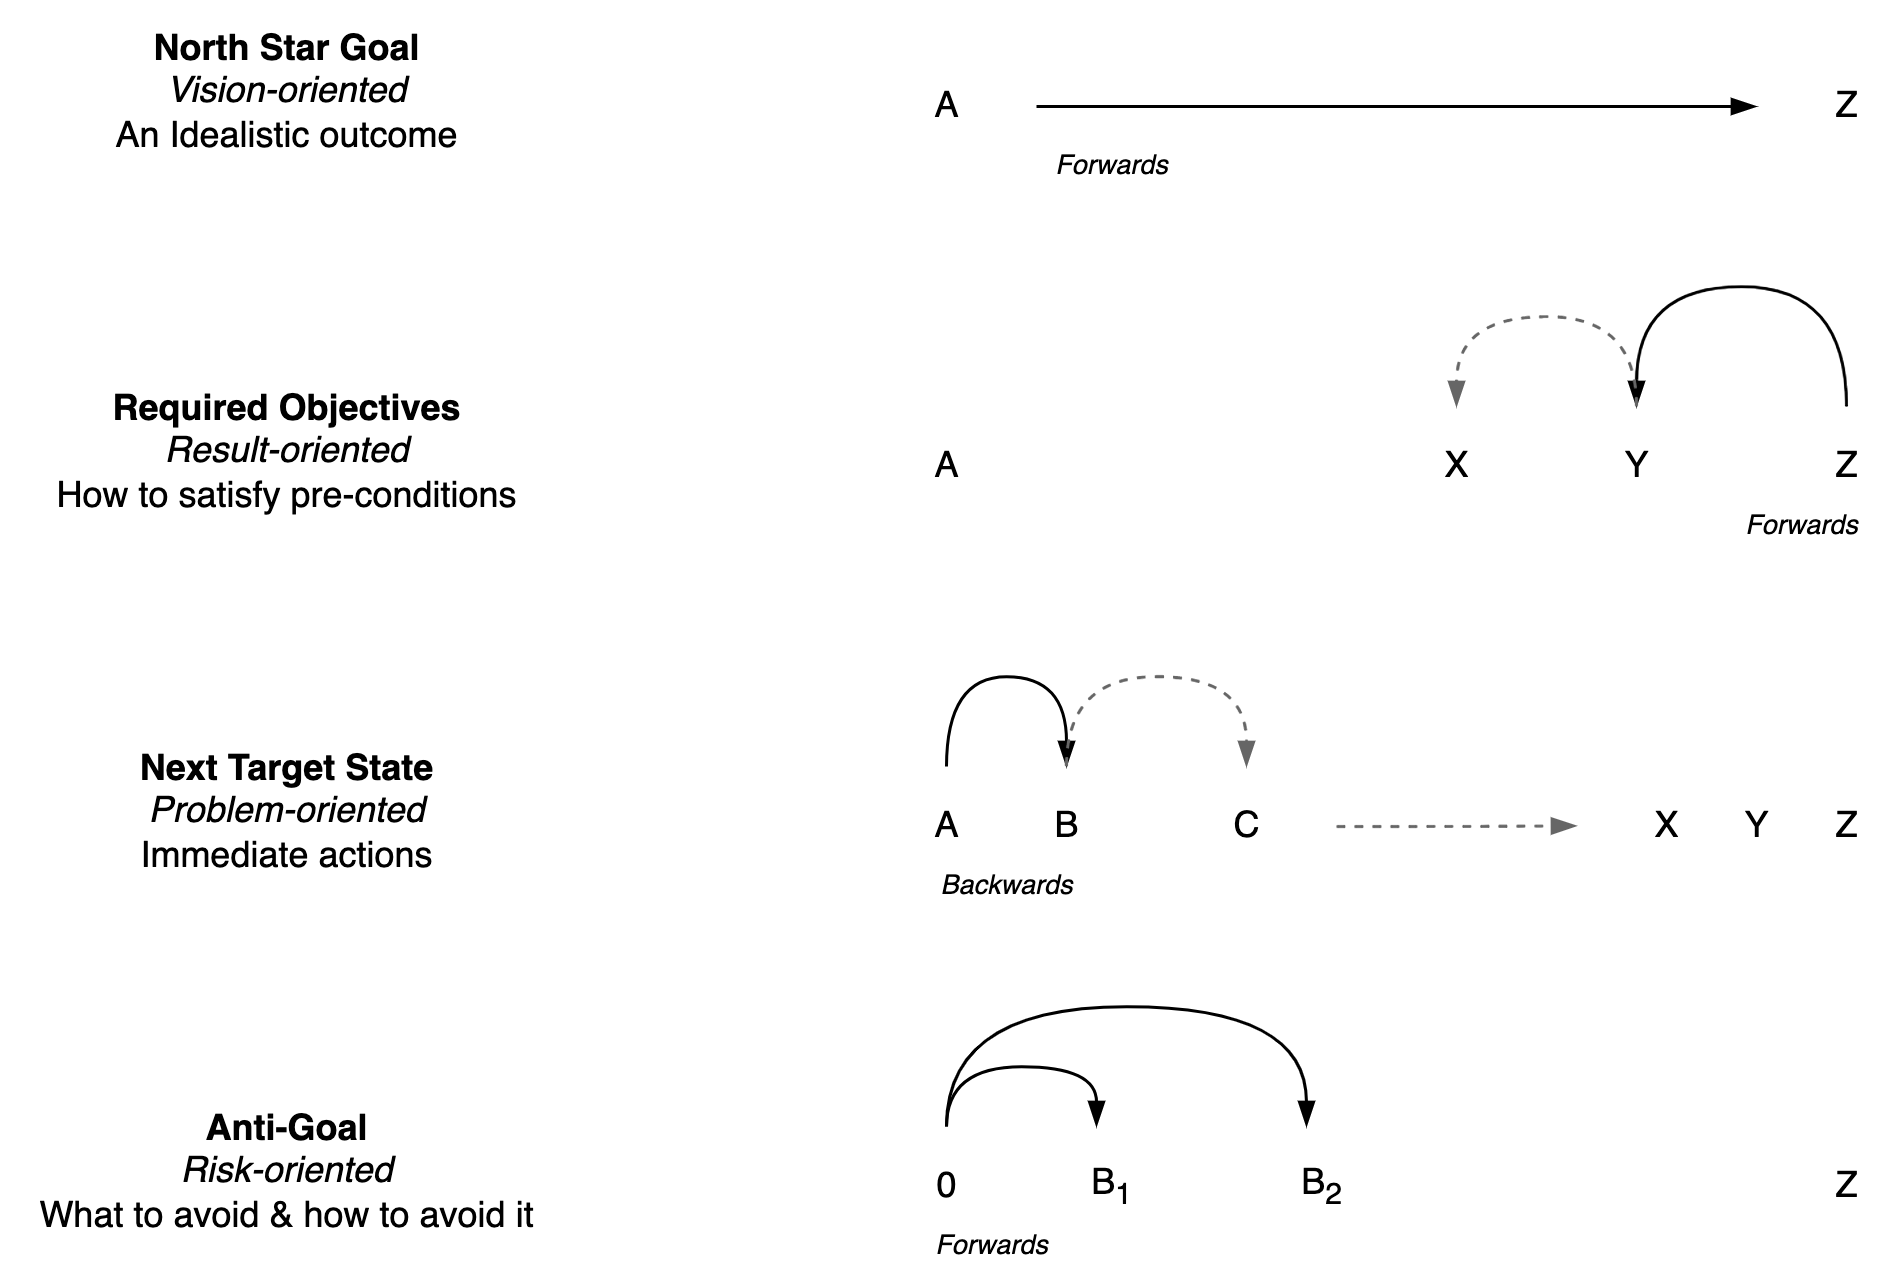
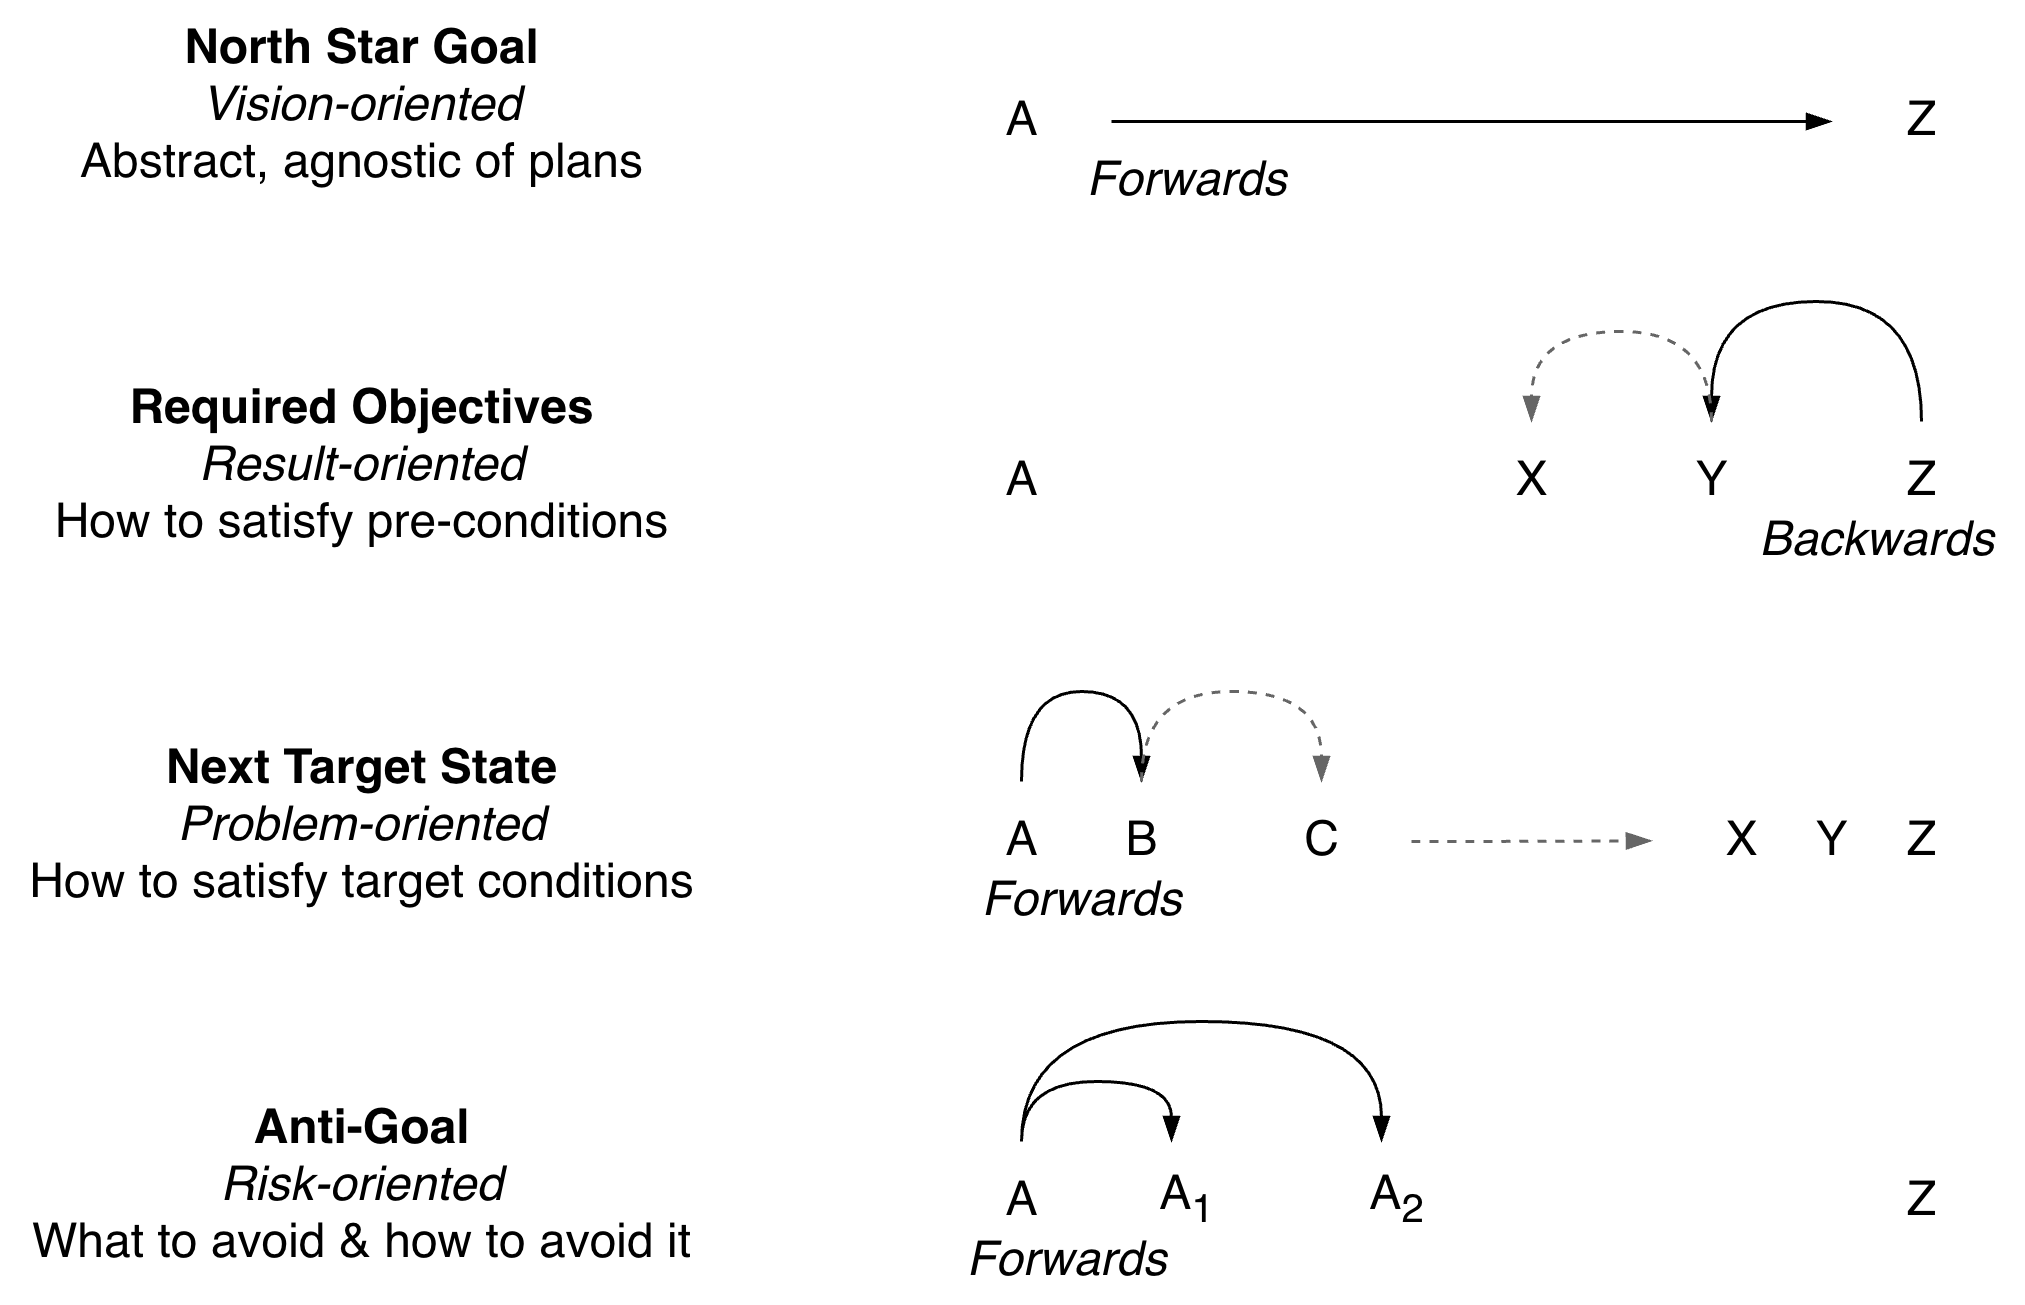
update imgs

diff --git a/documentation.md b/documentation.md
@@ -1,5 +1,7 @@
 # Documentation
 
+See also [planning visuals](visuals-planning.md).
+
 [toc]
 
 ## Audience & Author
@@ -171,68 +173,3 @@ Ad hoc guides. Historical guides that do not have to maintained.
 Archive. Deprecated pages.
 ```
 
-### Systems
-
-To visualize systems, long-running processes, value chains and pipelines. See also [systems-management](systems/systems-management.md).
-
-**Outside view**
-
-System as a black box. Focus on inputs and outputs.
-
-<img src="img/system-flow-value.png" alt="system-flow-value" style="width:50%;" />
-
-#### Inside Views
-
-**Distributed systems**
-
-```markdown
-- Compute / domain logic
-- Storage / persistency
-- Communication between component and the outside.
-```
-
-**Value Chain(s)**
-
-<img src="img/feature-functional-teams.png" alt="feature-functional-teams" style="width:70%;" />
-
-**Functional view**
-
-Activities and communication
-
-<img src="img/bpmp-simple.png" alt="bpmp-simple" style="width:50%;" />
-
-**Ownership / Responsibility**
-
-<img src="img/bpmp-ownership.png" alt="bpmp-ownership" style="width:50%;" />
-
-<img src="img/bpmn-responsibility.png" alt="bpmn-responsibility" style="width:50%;" />
-
-**Commoditization of Components**
-
-<img src="img/map-commoditization-visibility.png" alt="map-commoditization-visibility" style="width:60%;" />
-
-### Roadmap & Planning
-
-**Goals**
-
-<img src="img/goals-tree-double.png" alt="goals-tree" style="width:30%;" />
-
-<img src="img/current-target-state.png" alt="current-target-state" style="width:50%;" />
-
-<img src="img/roadmap-path.png" alt="roadmap-path" style="width:70%;" />
-
-<img src="img/project-comparison.png" alt="project-comparison" style="width:60%;" />
-
-**Kanban Board**
-
-<img src="img/kanban-board.png" alt="kanban-board" style="width:30%;" />
-
-### Processes
-
-**Queues**
-
-<img src="img/scheduling-slack.png" alt="scheduling-slack" style="width:80%;" />
-
-**Resource Contention**
-
-<img src="img/critical-chain.png" alt="critical-chain" style="width:60%;" />

diff --git a/visuals-planning.md b/visuals-planning.md
@@ -1,0 +1,74 @@
+# Planning-related Visuals
+
+[toc]
+
+## Systems
+
+To visualize systems, long-running processes, value chains and pipelines. See also [systems-management](systems/systems-management.md).
+
+### Outside view
+
+System as a black box. Focus on inputs and outputs.
+
+<img src="img/system-flow-value.png" alt="system-flow-value" style="width:50%;" />
+
+### Inside Views
+
+**Distributed systems**
+
+```markdown
+- Compute / domain logic
+- Storage / persistency
+- Communication between component and the outside.
+```
+
+**Value Chain(s)**
+
+<img src="img/feature-functional-teams.png" alt="feature-functional-teams" style="width:70%;" />
+
+**Functional view**
+
+Activities and communication
+
+<img src="img/bpmp-simple.png" alt="bpmp-simple" style="width:50%;" />
+
+**Ownership / Responsibility**
+
+<img src="img/bpmp-ownership.png" alt="bpmp-ownership" style="width:50%;" />
+
+<img src="img/bpmn-responsibility.png" alt="bpmn-responsibility" style="width:50%;" />
+
+**Commoditization of Components**
+
+<img src="img/map-commoditization-visibility.png" alt="map-commoditization-visibility" style="width:60%;" />
+
+## Roadmap & Planning
+
+**Goals**
+
+<img src="img/goals-tree-double.png" alt="goals-tree" style="width:30%;" />
+
+<img src="img/current-target-state.png" alt="current-target-state" style="width:36em;" />
+
+<img src="img/roadmap-path.png" alt="roadmap-path" style="width:70%;" />
+
+<img src="img/project-comparison.png" alt="project-comparison" style="width:60%;" />
+
+**Kanban Board**
+
+<img src="img/kanban-board.png" alt="kanban-board" style="width:30%;" />
+
+## Processes
+
+**Queues**
+
+<img src="img/scheduling-slack.png" alt="scheduling-slack" style="width:80%;" />
+
+**Resource Contention**
+
+<img src="img/critical-chain.png" alt="critical-chain" style="width:60%;" />
+
+
+
+
+

diff --git a/math/statistics.md b/math/statistics.md
@@ -30,9 +30,9 @@ Values may span over multiple dimensions. Dimensions may be correlated or uncorr
 
 
 
-A set of particles can be discretized over space, and transformed into a density function.
+A set of particles can be discretized over space, and transformed into a density function. Additionally the density function can be used to generate particles at a greater scale level (zoomed out).
 
-<img src="../img/particles-discretize-density.png" alt="particles-discretize-density" style="width:40em;" />
+<img src="../img/particles-discretize-density.png" alt="particles-discretize-density" style="width:51em;" />
 
 Alternatively, particles can be grouped into clusters.
 

diff --git a/alignment/goal-templates.md b/alignment/goal-templates.md
@@ -150,11 +150,11 @@ Different ways to set goals
 **Legend**
 
 - A. Current state
-- B. Next target state, which will help towards Y and Z.
-- Y. Required objective for Z.
+- B. Next target state, towards  Z
+- Y. A precondition to Z
 - Z. North star goal
 
-<img src="../img/setting-goals.png" alt="seq-par-chain" style="width:80%;" />
+<img src="../img/setting-goals.png" alt="seq-par-chain" style="width:42em;" />
 
 #### Template 2: Goal Cascade
 

diff --git a/alignment/goals.md b/alignment/goals.md
@@ -201,4 +201,4 @@ Set static goals to ensure a minimum standard of quality. Then optimize value wi
 
 Visually:
 
-<img src="../img/current-target-state.png" alt="current-target-state" style="width:70%;" />
+<img src="../img/current-target-state.png" alt="current-target-state" style="width:36em;" />
